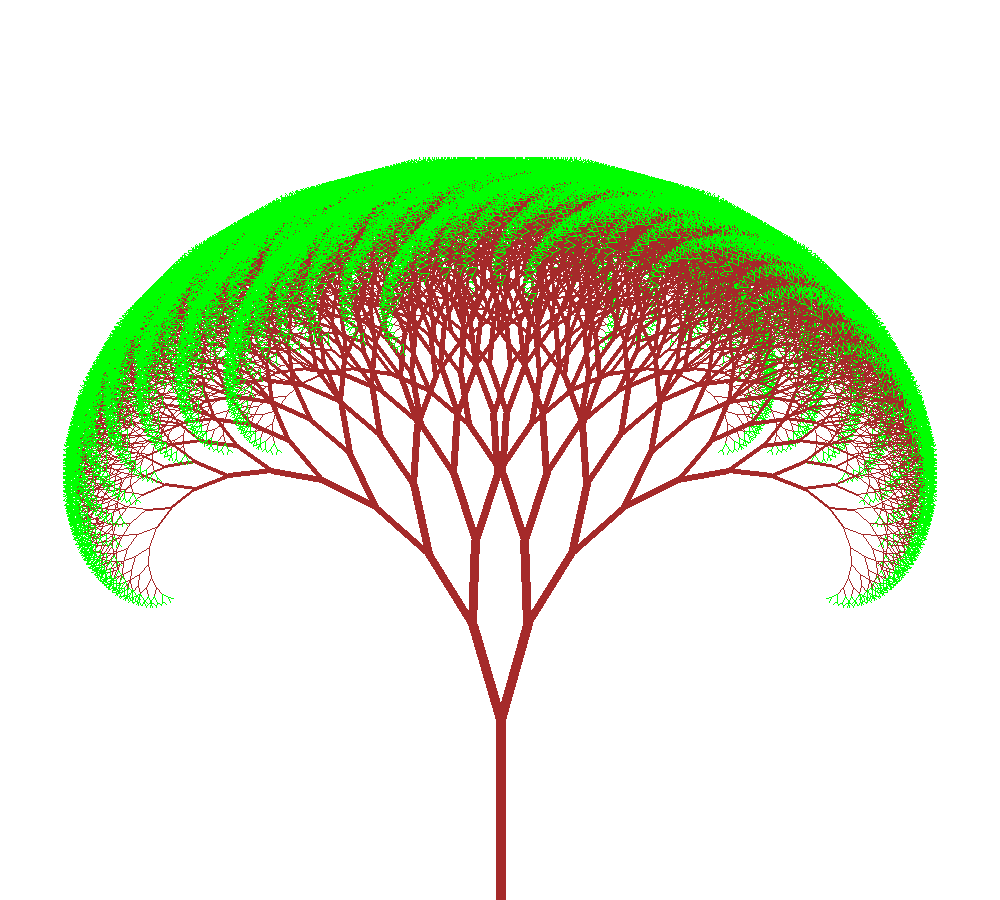
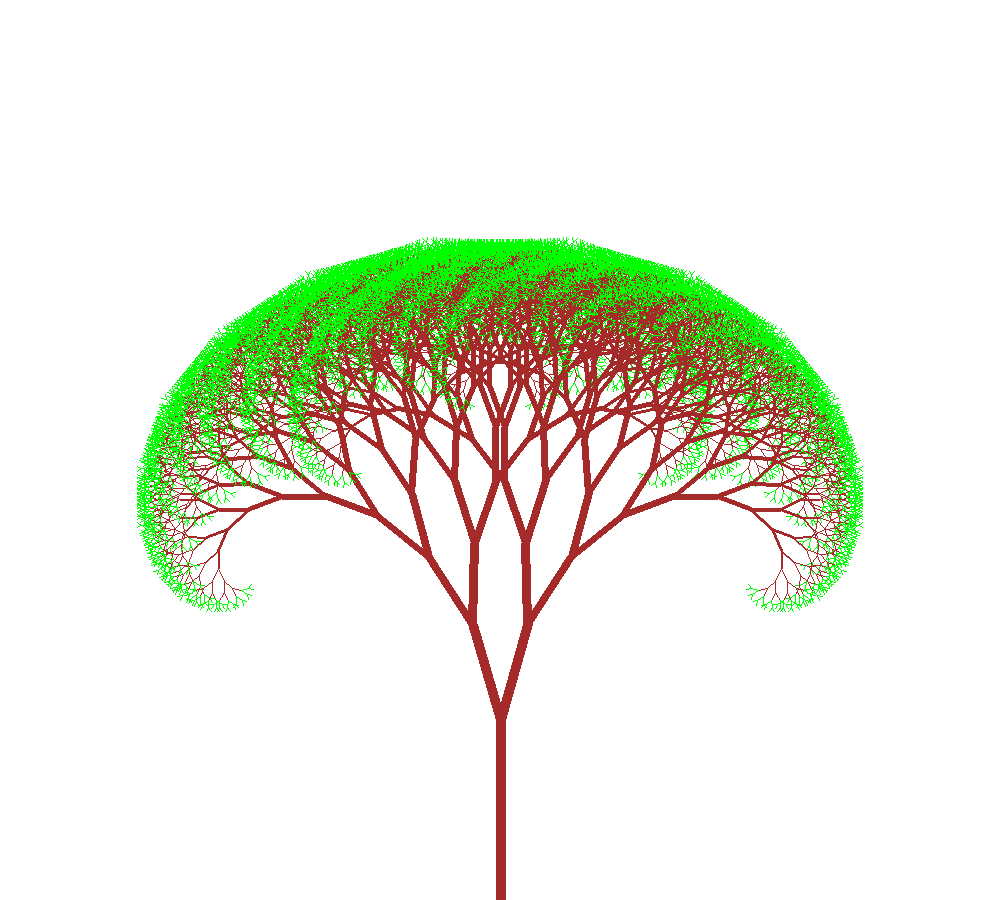
the angle count now is incremented by the angle

Changed region(s): [[0.062, 0.1556, 0.961, 0.6844]]

diff --git a/main.py b/main.py
@@ -34,13 +34,13 @@ def draw_fractal_tree(stp, angle, len, w, angle_count):
     enp = stp[0] + vec[0], stp[1] + vec[1]
 
     line(stp, enp, w, 'green' if w == 1 and len <= 7 else 'brown')
-    draw_fractal_tree(enp, angle, int(len*0.85), int(w*0.9) if w > 1 else 1, angle_count + 15)
+    draw_fractal_tree(enp, angle, int(len*0.825), int(w*0.9) if w > 1 else 1, angle_count + angle)
 
     vec = len * math.cos(-math.radians(angle) + math.radians(angle_count)), len * -math.sin(-math.radians(angle) + math.radians(angle_count))
     enp = stp[0] + vec[0], stp[1] + vec[1]
 
     line(stp, enp, w, 'green' if w == 1 and len <= 7 else 'brown')
-    draw_fractal_tree(enp, angle, int(len*0.85), int(w*0.9) if w > 1 else 1, angle_count - 15)
+    draw_fractal_tree(enp, angle, int(len*0.825), int(w*0.9) if w > 1 else 1, angle_count - angle)
 
 angle = 15
 
